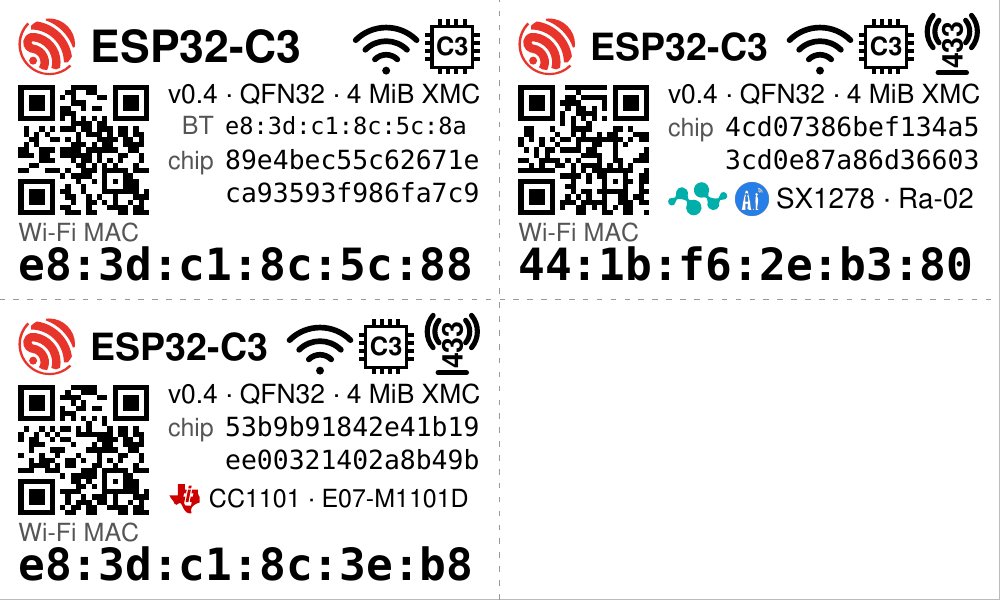
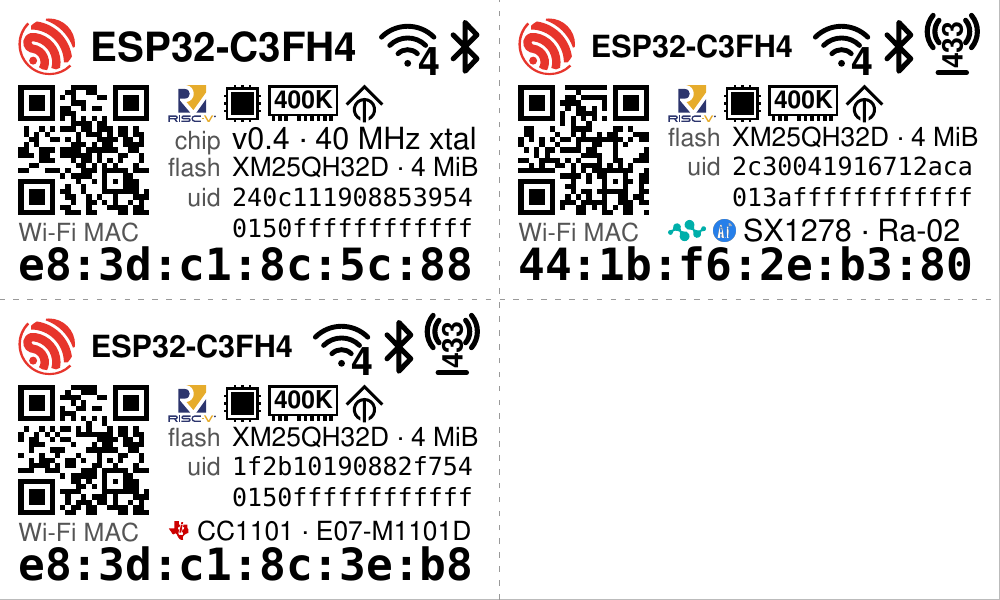
docs: the 433 MHz sticker on the redesigned ESP32 label
Claude-Session: https://claude.ai/code/session_01PBYpeR32kHxmN65GqkGhJx

Changed region(s): [[0.589, 0.03, 0.992, 0.42], [0.093, 0.03, 0.496, 0.39], [0.093, 0.51, 0.496, 0.9]]

diff --git a/docs/examples/render_esp32_433.py b/docs/examples/render_esp32_433.py
@@ -4,7 +4,7 @@
     uv run docs/examples/render_esp32_433.py
 
 The records are tests/esp32_433_devices.json: what `rpi-hwid collect
---esp32-read ... --esp32-radio ...` wrote on 2026-09-26 for the three
+--esp32-read ... --esp32-radio ...` wrote on 2026-09-27 for the three
 ESP32-C3 SuperMinis on rpi5-433mhz. The sticker is what `rpi-hwid labels`
 prints for them with both the esp32 and esp32-433 kinds: the SX1278 and
 the blue CC1101 node get the radio label, and the reference board, which

diff --git a/docs/LABELS.md b/docs/LABELS.md
@@ -549,14 +549,15 @@ An ESP32 wired to a 433 MHz radio board by
 gets the ESP32 label with the radio added (`--only esp32-433`):
 
 - **Header:** an antenna whose mast is the band, `433` set upright, after the
-  Wi-Fi and chip glyphs.
-- **Radio line:** under the chip's unique id, the chip maker's mark (TI for the
+  Wi-Fi and Bluetooth glyphs. The part number still prints whole.
+- **Radio line:** under the unique id, the chip maker's mark (TI for the
   CC1101, Semtech for the SX1278), the board maker's where there is one
   (Ai-Thinker for the Ra-02), then the chip and the board: `CC1101 ·
   E07-M1101D`, `CC1101 · D-Sun`, `SX1278 · Ra-02`.
 
-The room is the Bluetooth MAC's row, the one value on the ESP32 label that was
-not read (it is the Wi-Fi MAC plus two). Both rows of the chip's unique id stay.
+The room is the `chip` row, the revision and crystal, which every C3 SuperMini
+shares and the document keeps. The flash row and both rows of the unique id
+stay.
 
 The board is named by the pins the node's firmware found the chip on at boot,
 because each board puts its signals on different header positions; the maps are
@@ -574,7 +575,7 @@ plain label only.
 <img src="https://raw.githubusercontent.com/mithro/rpi-hwid/main/docs/examples/esp32-433-sticker.png" alt="Three micro labels from real reads on rpi5-433mhz: the reference ESP32-C3 with no radio (the plain ESP32 label), the SX1278 node (Semtech and Ai-Thinker marks, SX1278 · Ra-02) and the blue CC1101 node (TI mark, CC1101 · E07-M1101D)" width="98%">
 </p>
 
-These are the three C3 SuperMinis on rpi5-433mhz, read on 2026-09-26
+These are the three C3 SuperMinis on rpi5-433mhz, read on 2026-09-27
 (`tests/esp32_433_devices.json`); `docs/examples/render_esp32_433.py`
 regenerates the image. What is not read is refused:
 
